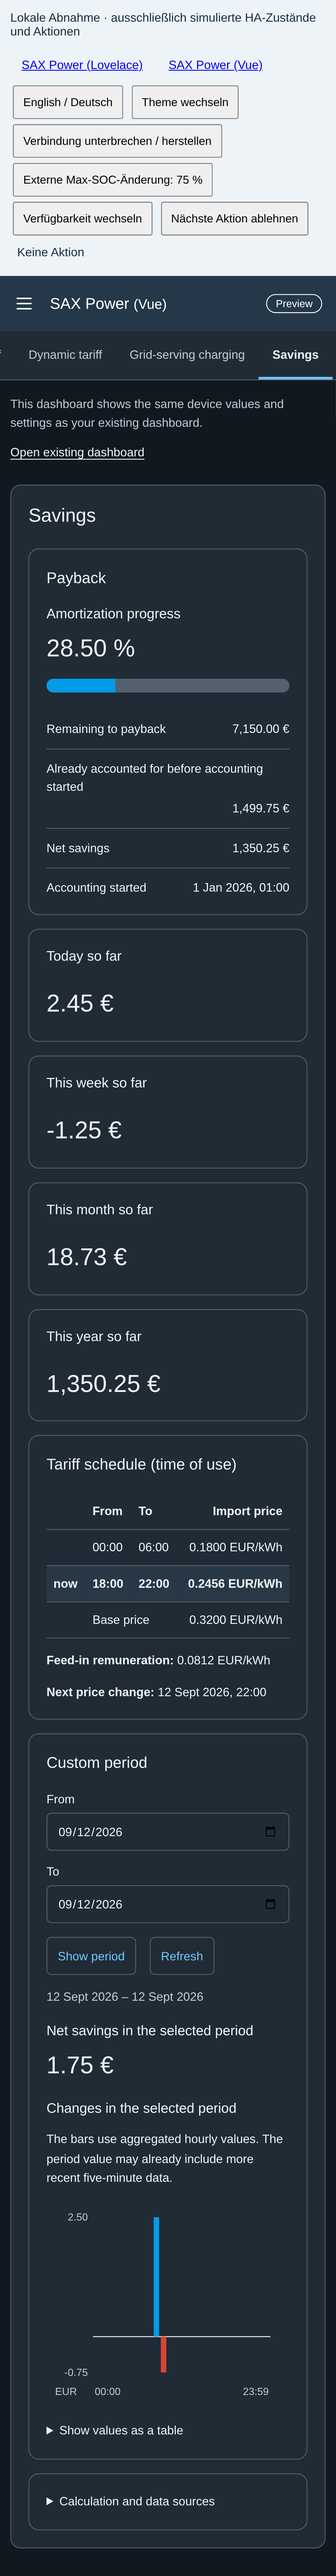
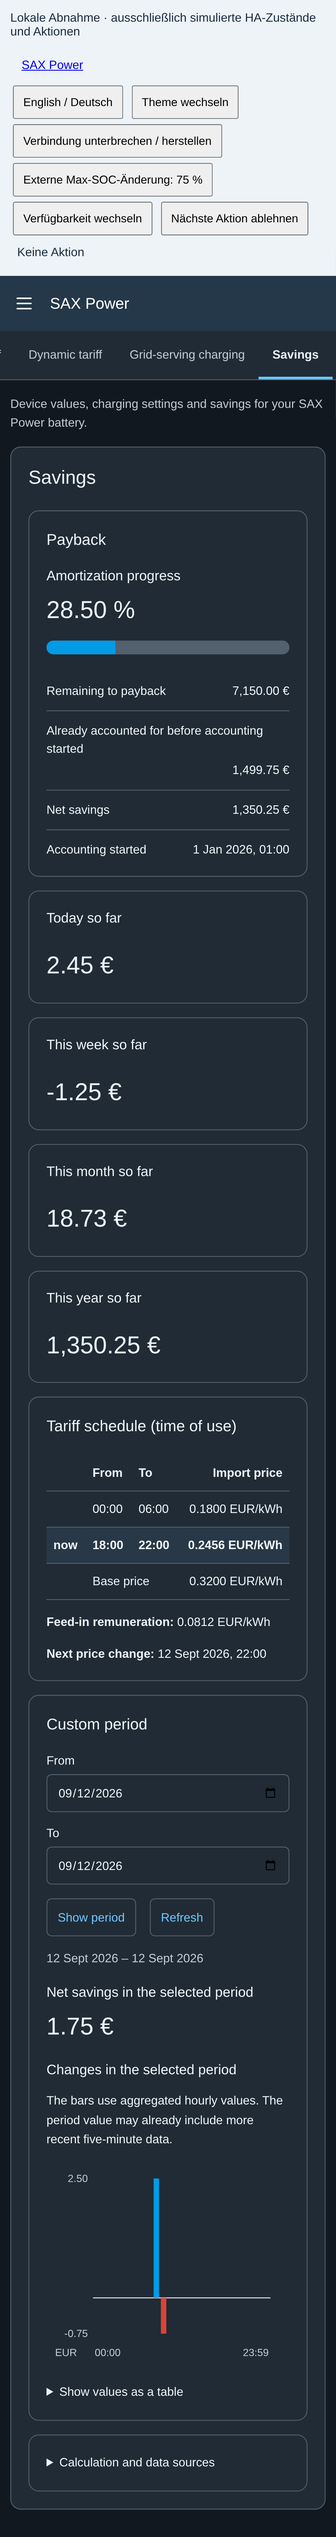
Dokumentiere das einzige Dashboard mit aktueller Browserabnahme

diff --git a/docs/vue-dashboard-parity.md b/docs/vue-dashboard-parity.md
@@ -237,6 +237,39 @@ nicht benötigt. Das JSON-Ergebnis enthält Manifestversion, ZIP-SHA-256,
 Asset-SHA-256, Dateianzahl und Ergebnis. Die JS-Ausführung selbst wird separat
 im Produktionsmodul- und Browserlauf geprüft.
 
+### Aktuelle Abnahme vom 12.09.2026
+
+Der vollständige
+[CI-Lauf 34687697772](https://github.com/dr-dimitri/sax-ha/actions/runs/34687697772)
+prüfte den Code aus
+[Commit 909c2b8920cc](https://github.com/dr-dimitri/sax-ha/commit/909c2b8920ccd1b3edaceca96a2ee8dca27afcb6)
+im zugehörigen PR-Testmerge erfolgreich. Der Browserbericht zeigt:
+**28 von 28 Browserfällen bestanden,
+keine Fehler, keine erst nach Wiederholung bestandenen Fälle und keine Skips**.
+Die Prüfung umfasst das einzige Dashboard **SAX Power**, alle fünf Ansichten,
+die kompakten Monatsraster und das Entfernen des zweiten Dashboard-Einstiegs.
+Das Produktionsmodul verwendet in diesen Browserprüfungen simulierte HA-Daten.
+
+Für diesen Stand bestanden **202 Komponententests**, Typprüfung, Prettier und
+der reproduzierbare Build. Die lokale Python-Gesamtsuite bestand mit
+**1.748 Tests und zwei erwarteten Hardware-Skips**; Ruff und Black waren grün.
+
+Die lokale Browserprüfung über CUA maß für beide Monatsraster:
+
+| Verfügbarer Platz | Monatsspalten | Rasterhöhe |
+| --- | --- | --- |
+| 1110 px Panelbreite | 6 | 116 px |
+| 390 px Browserbreite | 2 | 364 px |
+| 320 px Browserbreite | 1 | Kein horizontaler Überlauf |
+
+Die Messwerte gelten für die geprüften Beispieldaten. Fehler und ausstehende
+Aktionen dürfen die Kacheln vergrößern. Alle zwölf Monatsnamen bleiben lesbar
+und die Bedienflächen mindestens 44 × 44 px groß. Gespeicherte
+HA-Dashboards werden durch die Legacy-Migration nicht gelöscht. Es fand kein
+Test an einer physischen Batterie statt. Die finale isolierte Paketprüfung
+wird mit dem tatsächlichen Commit und den Prüfsummen in
+[PR #204](https://github.com/dr-dimitri/sax-ha/pull/204) festgehalten.
+
 ### Historische Prüfnachweise vom 12.09.2026
 
 Die folgenden Ergebnisse betreffen den jeweiligen früheren Code- und
@@ -262,15 +295,14 @@ bereitgehaltene Snapshot-Veröffentlichung. Weitere Paketnachweise sind mit
 Commit und Prüfsummen in [PR #204](https://github.com/dr-dimitri/sax-ha/pull/204)
 zugeordnet.
 
-### Screenshots des bisherigen Stands
+### Aktuelle Screenshots
 
-Diese Bilder stammen aus
-[CI-Lauf 34685941171](https://github.com/dr-dimitri/sax-ha/actions/runs/34685941171)
-vom 12.09.2026, **vor der Entfernung des alten Dashboards und der weiteren
-Verdichtung der Monatsraster**. Die dort sichtbaren Vue-/Vorschaukennzeichnungen
-und Links auf das alte Dashboard gehören zum damaligen Stand und sind kein
-Bestandteil der aktuellen Oberfläche. Die Bilder dokumentieren ausschließlich
-diese frühere Abnahme; aktuelle Screenshots folgen erst aus einem neuen CI-Lauf.
+Die 14 Bilder stammen aus dem Browserbericht von
+[CI-Lauf 34687697772](https://github.com/dr-dimitri/sax-ha/actions/runs/34687697772)
+vom 12.09.2026. Sie zeigen das einzige Dashboard **SAX Power** ohne
+Vue-/Vorschaukennzeichnung oder Einstieg zum alten Dashboard, die verdichteten
+Monatsraster und die Schalterbestätigung. Die Umgebung mit simulierten
+HA-Daten ist ausdrücklich als Testansicht gekennzeichnet.
 
 | Ansicht | Desktop, Deutsch, hell | Smartphone, Englisch, dunkel |
 | --- | --- | --- |
